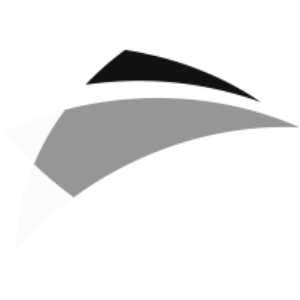
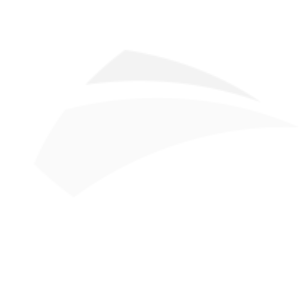
Fundo de Body e imagem de fundo em Main

Changed region(s): [[0.12, 0.15, 0.99, 0.66]]

diff --git a/css/index.css b/css/index.css
@@ -6,6 +6,12 @@
 
 }
 
+body{
+
+    background-image: radial-gradient(rgb(12, 87, 230), rgb(0, 7, 27));
+    
+}
+
 header{
 
     background-image: linear-gradient(rgb(238, 115, 1), rgb(253, 166, 3));
@@ -23,19 +29,14 @@ header{
 
 }
 
-
 #titulo1{
 
     display: flex;
     justify-content: center;
     
-    
 }
 
-
 #titulo2{
-
-    
 
     width: 90%;
     max-width: 1700px;
@@ -43,7 +44,6 @@ header{
     min-height: 50px;
    
 }
-
 
 #sinopse1{
 
@@ -57,7 +57,6 @@ header{
 
 }
 
-
 #sinopse2{
 
     color: white;
@@ -66,17 +65,22 @@ header{
     font-size: 80%;
     font-weight: 700;
 
-    
-    
-    
-    
-    
 }
-
 
 main{
 
-    background-image: radial-gradient(rgb(12, 87, 230), rgb(0, 7, 27));
+    /* Localizar a imagem de fundo */
+    background-image: url(../images/fundo.png);
+    
+    /* O tamanho da imagem */
+    background-size: 80px;
+    
+    /* Espaço da imagem na tela */
+    height: 100%;
+
+    /* Opacidade */
+    opacity: 100%;
+
     
     width: 100%;
     min-width: 300px;
@@ -86,14 +90,12 @@ main{
 
 }
 
-
 #arte1{
 
     display: flex;
     justify-content: center;
 
 }
-
 
 #arte2{
 
@@ -112,7 +114,6 @@ main{
 
 }
 
-
 section{
     
     display: flex;
@@ -124,14 +125,12 @@ section{
 
 }
 
-
 article{
 
     background-color: white;
     border-radius: 10%;
 
 }
-
 
 a{
 
@@ -142,10 +141,9 @@ a{
 
 }
 
-
 footer{
 
-    background-color: rgb(163, 24, 24);
+    background-color: rgb(255, 255, 255);
 
     display: flex;
     justify-content: space-around;
@@ -189,7 +187,6 @@ footer{
 
 }
 
-
 #bola2{
 
    background-color: rgb(8, 50, 145);
@@ -204,7 +201,6 @@ footer{
 
 
 }
-
 
 #logos{
 

diff --git a/index.html b/index.html
@@ -1,5 +1,6 @@
 <!DOCTYPE html>
 <html lang="pt-br">
+
 <head>
     <meta charset="UTF-8">
     <meta name="viewport" content="width=device-width, initial-scale=1.0">
@@ -11,13 +12,9 @@
     
 </head>
 
-
 <body>
 
-
     <header>
-
-        
 
         <div id="titulo1"><img id="titulo2" src="images/Titulo Botão.png" alt=""></div>
     
@@ -27,14 +24,12 @@
 
     </header>
 
-
     <main>
 
         <div id="arte1">
-        <img id="arte2" src="images/Gif2.gif" height="80" alt="Gif com as ferramentas do curso.Html5, Css3, JavaScript, Php e Sql.">
+            <img id="arte2" src="images/Gif2.gif" alt="">
         </div>
-
-
+       
         <section>
 
             <article>
@@ -170,7 +165,6 @@
 
     </main>
 
-   
     <footer>
 
         <div id="botons">
@@ -198,7 +192,6 @@
       
     </footer>
             
-        
-
 </body>
+
 </html>
